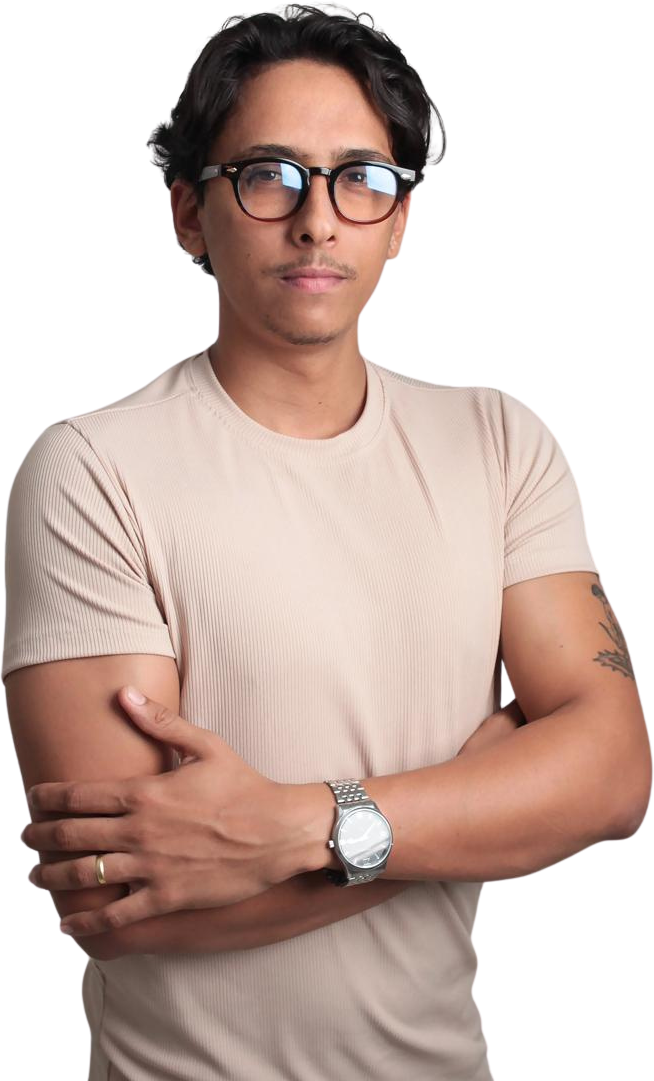
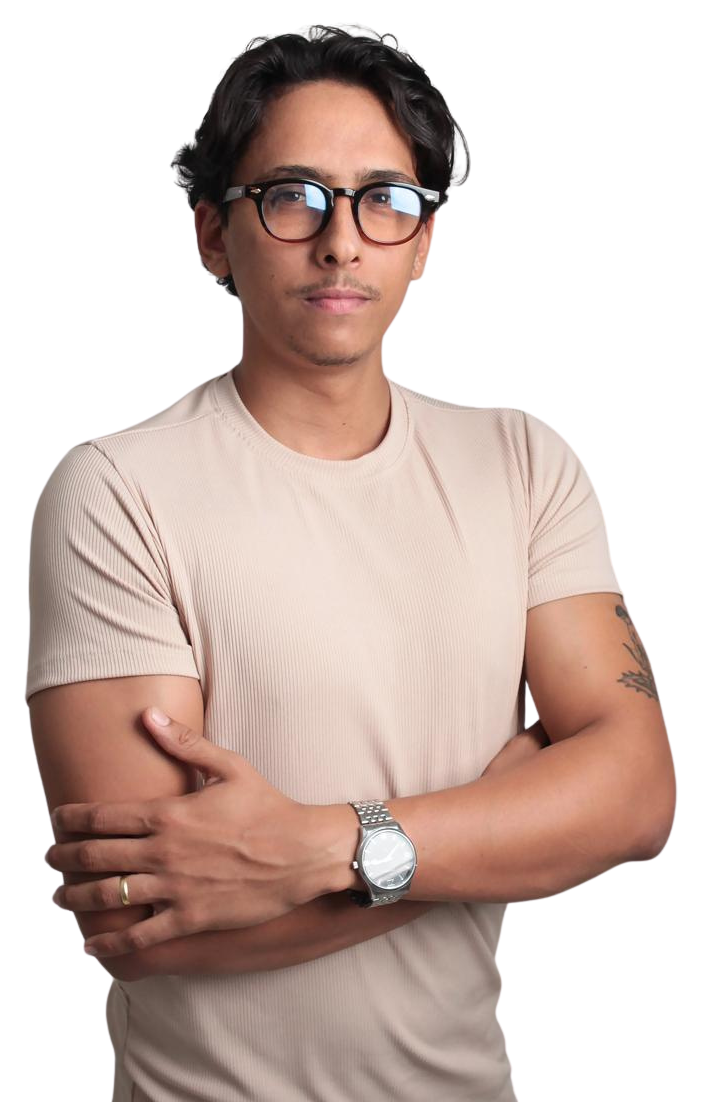
/precificacao: campo de nome obrigatório e foto do Leo sem fundo (identidade visual)

diff --git a/precificacao/index.html b/precificacao/index.html
@@ -43,7 +43,7 @@
     { "@type": "Question", "name": "Por que o preço certo importa tanto no marketplace?", "acceptedAnswer": { "@type": "Answer", "text": "Porque vender muito não é o mesmo que lucrar. Na Shopee, comissão, taxa fixa por item, imposto, Ads e afiliado saem de cima de cada venda. Se o preço não cobre tudo isso, quanto mais você vende, mais dinheiro some do caixa." } },
     { "@type": "Question", "name": "Como descobrir o preço de venda ideal na Shopee?", "acceptedAnswer": { "@type": "Answer", "text": "Some o custo do produto (peça, embalagem, etiqueta) e a taxa fixa da faixa de preço. Divida por 1 menos a comissão, o imposto, o Ads, o afiliado e a margem que você quer. Como a comissão e a taxa fixa mudam por faixa (até R$ 79,99, de R$ 80 a R$ 99,99, de R$ 100 a R$ 199,99 e acima de R$ 200), a calculadora testa cada faixa e entrega o preço que fecha a sua margem." } },
     { "@type": "Question", "name": "Qual a diferença entre margem e markup?", "acceptedAnswer": { "@type": "Answer", "text": "Markup é o quanto você multiplica o custo. Margem é a parte do preço de venda que sobra no seu bolso. Somar 30% ao custo não dá 30% de margem: comissão, taxa, imposto e Ads são cobrados sobre o preço de venda, então a sobra real fica bem menor." } },
-    { "@type": "Question", "name": "A calculadora é grátis?", "acceptedAnswer": { "@type": "Answer", "text": "Sim. Você preenche e-mail, WhatsApp, faturamento e se fabrica ou revende, e a calculadora abre na hora. Também mandamos o link no seu e-mail para você usar sempre que for precificar." } }
+    { "@type": "Question", "name": "A calculadora é grátis?", "acceptedAnswer": { "@type": "Answer", "text": "Sim. Você preenche nome, e-mail, WhatsApp, faturamento e se fabrica ou revende, e a calculadora abre na hora. Também mandamos o link no seu e-mail para você usar sempre que for precificar." } }
   ]
 }
 </script>
@@ -271,7 +271,7 @@
       </div>
     </div>
     <div class="hero-foto">
-      <picture><source srcset="leo.webp" type="image/webp"><img src="leo.png" alt="Leo Gutemberg, fabricante de moda e vendedor de marketplaces" width="654" height="1081" fetchpriority="high"></picture>
+      <picture><source srcset="leo.webp" type="image/webp"><img src="leo.png" alt="Leo Gutemberg, fabricante de moda e vendedor de marketplaces" width="701" height="1102" fetchpriority="high"></picture>
       <div class="recibo" aria-label="Exemplo de resultado da calculadora">
         <p class="r-tit">Preço na Shopee</p>
         <p class="r-preco">R$ 79,90</p>
@@ -311,7 +311,7 @@
         <h2 class="titulo" style="margin-top:14px">O preço pronto na hora, sem planilha.</h2>
         <p class="sub">Preencha seus dados e a calculadora abre na mesma hora.</p>
         <ol class="passos">
-          <li>Preencha os 4 campos</li>
+          <li>Preencha seus dados</li>
           <li>A calculadora abre na hora (e o link vai pro seu e-mail)</li>
           <li>Coloque seus custos e veja o preço certo</li>
         </ol>
@@ -320,6 +320,12 @@
         <form id="form" novalidate>
           <h3>Acessar a calculadora</h3>
           <p class="card-sub">Leva menos de 1 minuto.</p>
+
+          <div class="campo" data-campo="nome">
+            <label class="rot" for="f-nome">Seu nome</label>
+            <input id="f-nome" type="text" autocomplete="name" autocapitalize="words" maxlength="120" placeholder="Nome e sobrenome" required>
+            <p class="msg" role="alert"></p>
+          </div>
 
           <div class="campo" data-campo="email">
             <label class="rot" for="f-email">Seu melhor e-mail</label>
@@ -400,7 +406,7 @@
 
   <section class="autor">
     <div class="wrap autor-grid">
-      <div class="autor-foto rev"><picture><source srcset="leo.webp" type="image/webp"><img src="leo.png" alt="Leo Gutemberg" width="654" height="1081" loading="lazy"></picture></div>
+      <div class="autor-foto rev"><picture><source srcset="leo.webp" type="image/webp"><img src="leo.png" alt="Leo Gutemberg" width="701" height="1102" loading="lazy"></picture></div>
       <div class="autor-txt rev">
         <p class="kicker">Quem criou</p>
         <h2 class="titulo" style="margin-top:14px">Feita por quem vende todo dia.</h2>
@@ -422,7 +428,7 @@
         <details><summary>Por que o preço certo importa tanto no marketplace?</summary><p>Porque vender muito não é o mesmo que lucrar. Na Shopee, comissão, taxa fixa por item, imposto, Ads e afiliado saem de cima de cada venda. Se o preço não cobre tudo isso, quanto mais você vende, mais dinheiro some do caixa.</p></details>
         <details><summary>Como descobrir o preço de venda ideal na Shopee?</summary><p>Some o custo do produto (peça, embalagem, etiqueta) e a taxa fixa da faixa de preço. Divida por 1 menos a comissão, o imposto, o Ads, o afiliado e a margem que você quer. Como a comissão e a taxa fixa mudam por faixa (até R$ 79,99, de R$ 80 a R$ 99,99, de R$ 100 a R$ 199,99 e acima de R$ 200), a calculadora testa cada faixa e entrega o preço que fecha a sua margem.</p></details>
         <details><summary>Qual a diferença entre margem e markup?</summary><p>Markup é o quanto você multiplica o custo. Margem é a parte do preço de venda que sobra no seu bolso. Somar 30% ao custo não dá 30% de margem: comissão, taxa, imposto e Ads são cobrados sobre o preço de venda, então a sobra real fica bem menor.</p></details>
-        <details><summary>A calculadora é grátis?</summary><p>Sim. Você preenche e-mail, WhatsApp, faturamento e se fabrica ou revende, e a calculadora abre na hora. Também mandamos o link no seu e-mail para você usar sempre que for precificar.</p></details>
+        <details><summary>A calculadora é grátis?</summary><p>Sim. Você preenche nome, e-mail, WhatsApp, faturamento e se fabrica ou revende, e a calculadora abre na hora. Também mandamos o link no seu e-mail para você usar sempre que for precificar.</p></details>
       </div>
     </div>
   </section>
@@ -476,6 +482,7 @@
   });
 
   const regras = {
+    nome: () => $('#f-nome').value.trim().length < 2 ? 'Escreve seu nome.' : '',
     email: () => { const v = $('#f-email').value.trim(); return !v ? 'Escreve seu e-mail pra gente liberar a calculadora.' : /^[^\s@]+@[^\s@]+\.[^\s@]{2,}$/.test(v) ? '' : 'Hmm, esse e-mail parece incompleto. Confere?'; },
     whatsapp: () => { const d = onlyDigits(tel.value); return !d ? 'Coloca seu WhatsApp com DDD.' : d.length !== 11 || !/^[1-9]{2}9/.test(d) ? 'Confere o número: DDD + 9 dígitos, tipo (11) 99999-9999.' : ''; },
     faturamento: () => $('#f-faturamento').value ? '' : 'Escolhe uma opção.',
@@ -516,6 +523,7 @@
     const fat = $('#f-faturamento').value;
     const row = {
       pagina: 'precificacao',
+      nome: $('#f-nome').value.trim().replace(/\s+/g, ' ').slice(0, 120),
       email: $('#f-email').value.trim().toLowerCase(),
       whatsapp: onlyDigits(tel.value),
       fabrica_ou_revende: $('#f-perfil').value,
